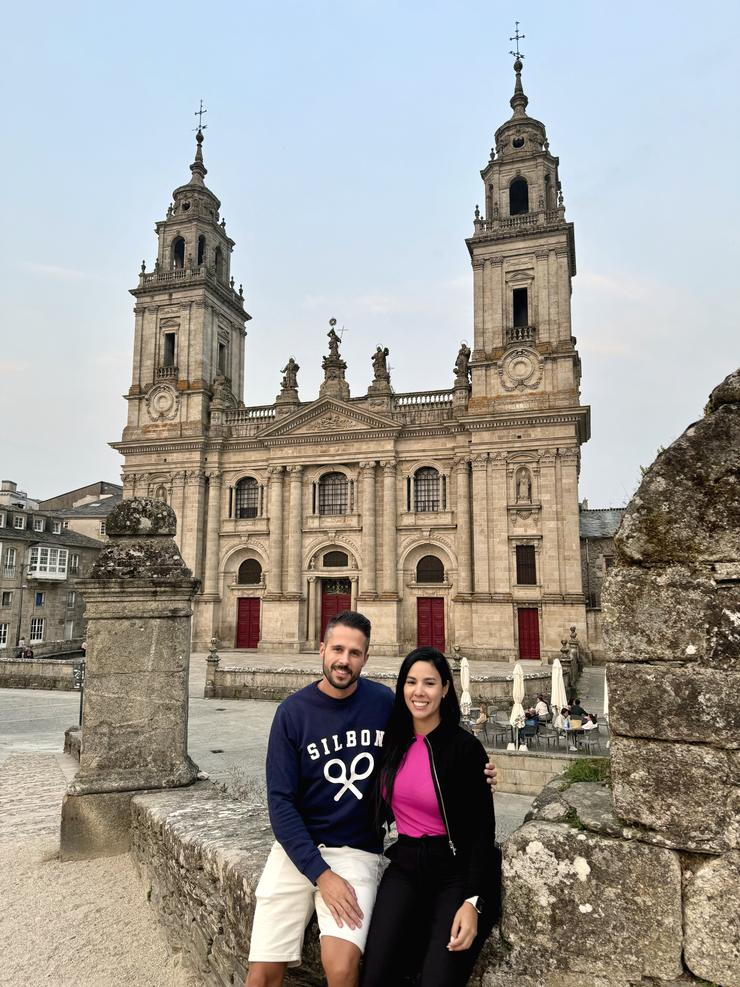
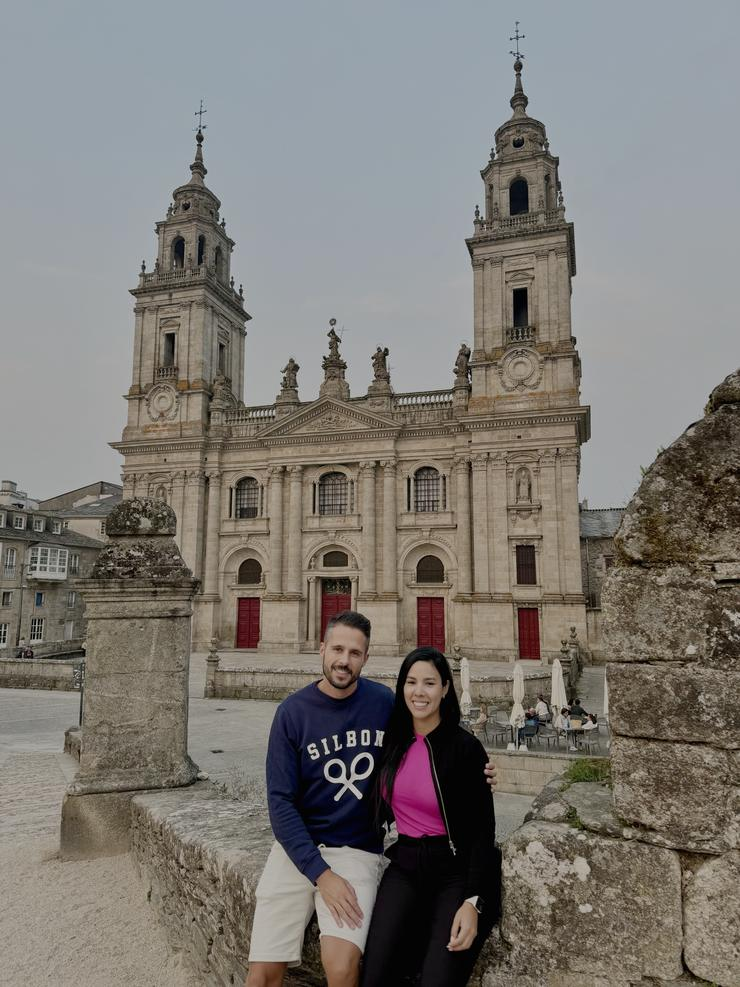
v103: 24 fotos con brillo suavizado, pedida en Paris y Barcelona al final

diff --git a/index.html b/index.html
@@ -703,12 +703,13 @@
     <div class="slide"><img src="f/15.jpg" alt="Londres" loading="lazy"></div>
     <div class="slide"><img src="f/16.jpg" alt="Mallorca" loading="lazy"></div>
     <div class="slide"><img src="f/17.jpg" alt="Nuestro plan favorito" loading="lazy"></div>
-    <div class="slide"><img src="f/18.jpg" alt="Park Güell" loading="lazy"></div>
-    <div class="slide"><img src="f/19.jpg" alt="Sagrada Familia" loading="lazy"></div>
-    <div class="slide"><img src="f/20.jpg" alt="París" loading="lazy"></div>
-    <div class="slide"><img src="f/21.jpg" alt="París, un café" loading="lazy"></div>
-    <div class="slide"><img src="f/22.jpg" alt="El sí quiero" loading="lazy"></div>
-    <div class="slide"><img src="f/23.jpg" alt="La pedida, Florencia" loading="lazy"></div>
+    <div class="slide"><img src="f/18.jpg" alt="París" loading="lazy"></div>
+    <div class="slide"><img src="f/19.jpg" alt="París, un café" loading="lazy"></div>
+    <div class="slide"><img src="f/20.jpg" alt="La pedida, París" loading="lazy"></div>
+    <div class="slide"><img src="f/21.jpg" alt="El sí quiero" loading="lazy"></div>
+    <div class="slide"><img src="f/22.jpg" alt="Florencia" loading="lazy"></div>
+    <div class="slide"><img src="f/23.jpg" alt="Park Güell" loading="lazy"></div>
+    <div class="slide"><img src="f/24.jpg" alt="Sagrada Familia" loading="lazy"></div>
   </div>
   </div>
   <p style="font-size:.72rem;letter-spacing:.22em;text-transform:uppercase;color:var(--wine);margin-top:8px">Desliza para ver más →</p>
